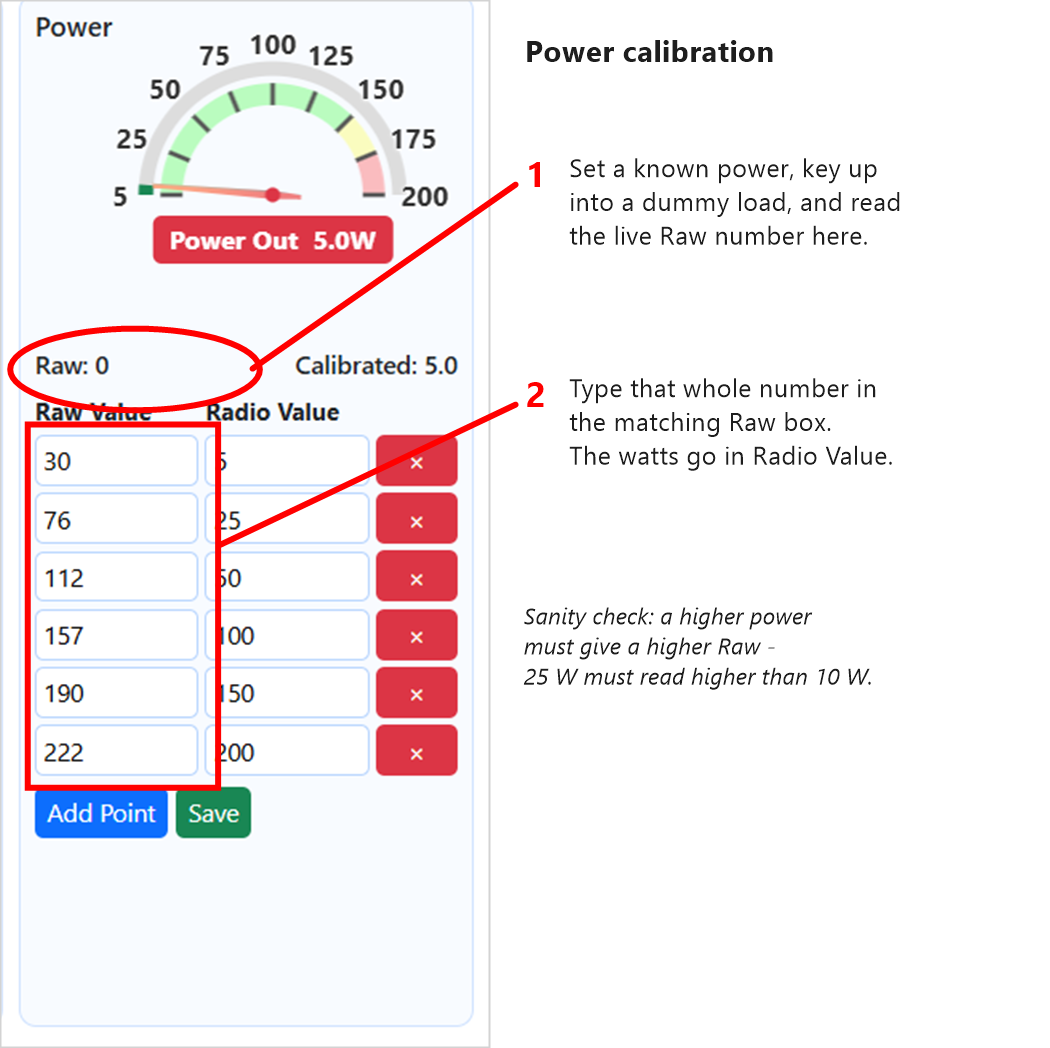
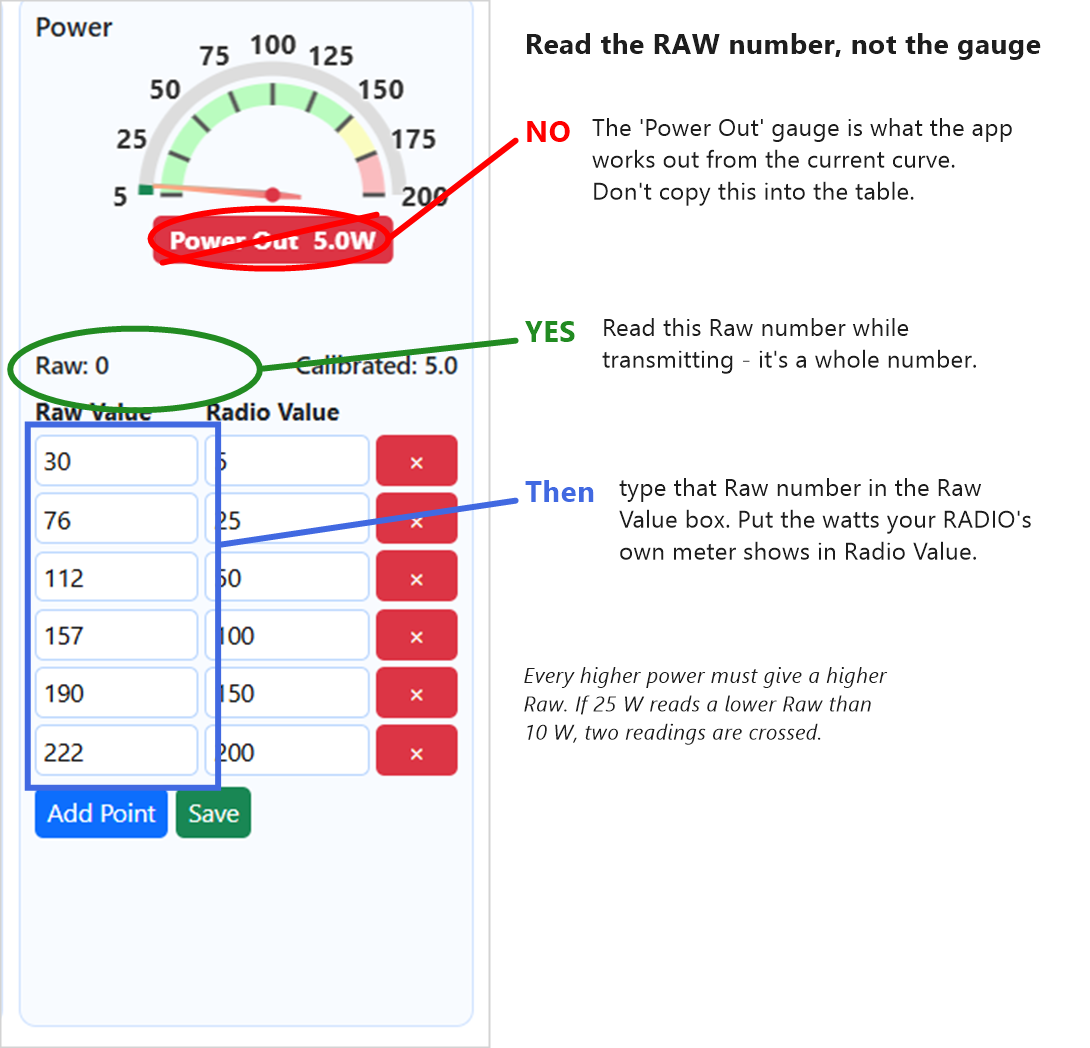
Docs: clarify calibration reads the Raw indicator, not the app gauge
Add a Section 10 warning that the calibration-page gauges and value
badges are the app's own computed output - a calibration point pairs
the on-page Raw: indicator with the value from the radio's own meter,
never the app gauge. Rework the annotated Power screenshot to strike
out the "Power Out" gauge (do not read) and ring the Raw indicator
(read this). Prompted by FTDX5000MP power submissions on Discussion
#88 where the computed gauge reading was entered as the raw value.

diff --git a/USER_MANUAL.md b/USER_MANUAL.md
@@ -1769,6 +1769,13 @@ For example, the S-meter might have points like:
 
 The gauge interpolates between points to produce smooth readings.
 
+> **Important — where each number comes from.** The gauges and value badges on the calibration page (the needle, the **Power Out X.XW** badge, the S-unit label, and so on) are the app's *output*: it produces them by running the raw value through the **current** calibration curve. They are **not** the numbers you record. To make a calibration point you pair two things:
+>
+> - the **raw value** — read from the **`Raw:`** indicator on the page (the number the radio sends, before any calibration); and
+> - the **true value** — read from the **radio's own meter or display** (or an external reference, such as a wattmeter into a dummy load).
+>
+> Copying the page's own gauge reading back into the table calibrates the app against itself and achieves nothing. Always take the true value from the radio, never from YWC's gauge.
+
 **Editing calibration:**
 
 1. To add a point: click **Add Point**, then enter the raw and display values.
@@ -1814,7 +1821,7 @@ The shipped default is measured on a specific FTdx101MP. Your individual radio m
 
 The power meter on YWC reads the radio's transmitted RF power. To calibrate it, you transmit at known power levels and record the raw values YWC sees.
 
-![The Power panel on the Meter Calibration page. The live Raw indicator (ringed) is the whole number you read while transmitting; the Raw Value column below it is where you type that number, with the known watts going in the Radio Value column alongside.](pictures/Calibration-Power-Annotated.png)
+![The Power panel on the Meter Calibration page, annotated. The "Power Out" badge (ringed in red and struck through) is the app's computed result — do not read it. Read the green-ringed live Raw indicator instead — a whole number that only moves while transmitting — type it into the Raw Value column, and put the watts your radio's own meter shows in the Radio Value column.](pictures/Calibration-Power-Annotated.png)
 
 **Before you start:**
 
